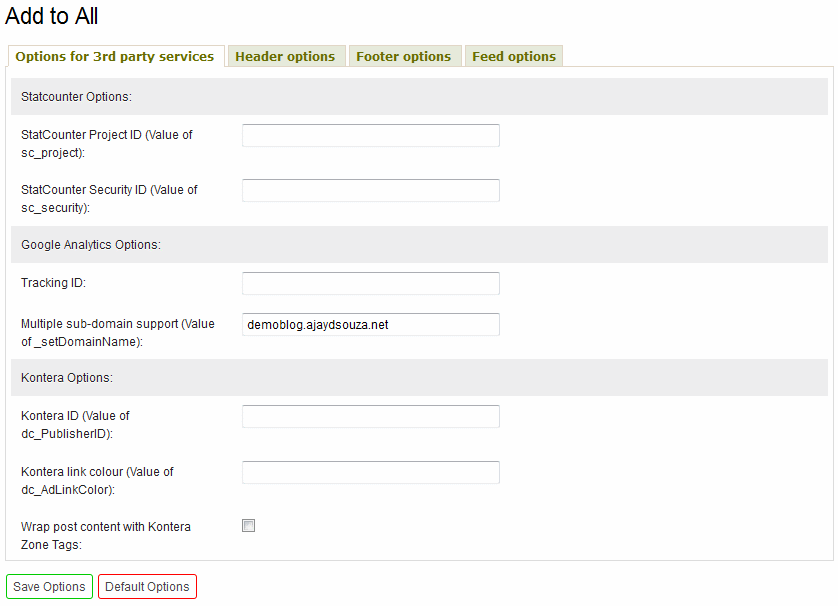
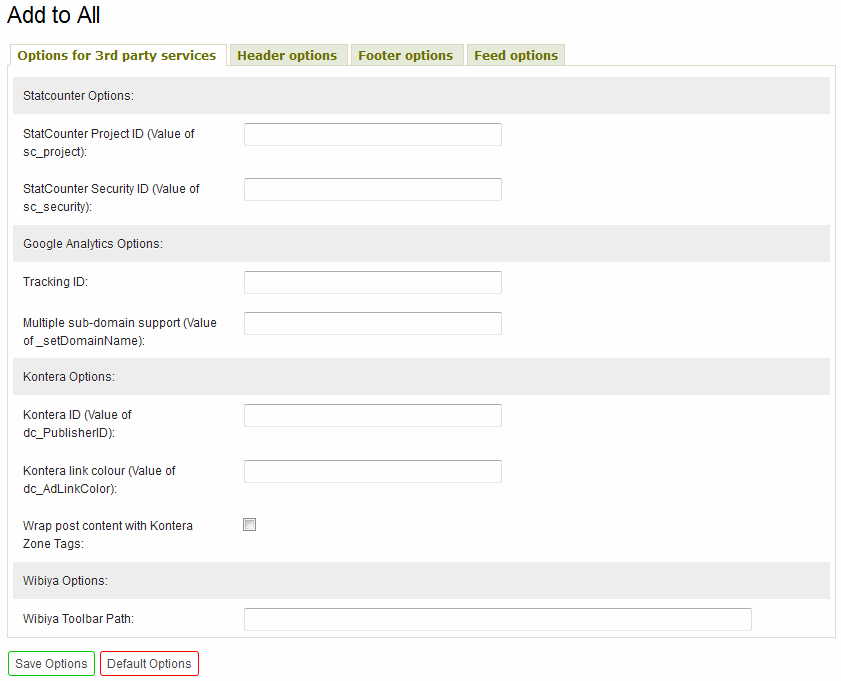
Added support for Wibiya

diff --git a/admin.inc.php b/admin.inc.php
@@ -40,6 +40,7 @@ function ata_options() {
 		$ata_settings[tp_kontera_ID] = ($_POST['tp_kontera_ID']);
 		$ata_settings[tp_kontera_linkcolor] = ($_POST['tp_kontera_linkcolor']);
 		$ata_settings[tp_kontera_addZT] = (($_POST['tp_kontera_addZT']) ? true : false);
+		$ata_settings[tp_wibiya_url] = ($_POST['tp_wibiya_url']);
 
 		update_option('ald_ata_settings', $ata_settings);
 		
@@ -89,7 +90,7 @@ function ata_options() {
 			<li><a href="http://ajaydsouza.com/wordpress/plugins/add-to-all/"><?php _e('Add to All ');_e('plugin page',ATA_LOCAL_NAME) ?></a></li>
 			<li><a href="http://ajaydsouza.com/wordpress/plugins/"><?php _e('Other plugins',ATA_LOCAL_NAME) ?></a></li>
 			<li><a href="http://ajaydsouza.com/"><?php _e('Ajay\'s blog',ATA_LOCAL_NAME) ?></a></li>
-			<li><a href="http://ajaydsouza.com/support/"><?php _e('Support',ATA_LOCAL_NAME) ?></a></li>
+			<li><a href="http://wordpress.org/support/plugin/add-to-all"><?php _e('Support',ATA_LOCAL_NAME) ?></a></li>
 			<li><a href="http://twitter.com/ajaydsouza"><?php _e('Follow @ajaydsouza on Twitter',ATA_LOCAL_NAME) ?></a></li>
 		</ul>
 		</div>
@@ -111,30 +112,35 @@ function ata_options() {
 			  <table class="form-table">
 				<tr style="vertical-align: top; background: #eee"><th scope="row" colspan="2"><?php _e('Statcounter Options:',ATA_LOCAL_NAME); ?></th>
 				</tr>
-				<tr style="vertical-align: top;"><th scope="row"><label for="tp_sc_project"><?php _e('StatCounter Project ID (Value of sc_project): ',ATA_LOCAL_NAME); ?></label></th>
+				<tr style="vertical-align: top;"><th scope="row"><label for="tp_sc_project"><?php _e('StatCounter Project ID (Value of sc_project):',ATA_LOCAL_NAME); ?></label></th>
 				<td><input type="textbox" name="tp_sc_project" id="tp_sc_project" value="<?php echo attribute_escape(stripslashes($ata_settings[tp_sc_project])); ?>" style="width:250px" /></td>
 				</tr>
-				<tr style="vertical-align: top;"><th scope="row"><label for="tp_sc_security"><?php _e('StatCounter Security ID (Value of sc_security): ',ATA_LOCAL_NAME); ?></label></th>
+				<tr style="vertical-align: top;"><th scope="row"><label for="tp_sc_security"><?php _e('StatCounter Security ID (Value of sc_security):',ATA_LOCAL_NAME); ?></label></th>
 				<td><input type="textbox" name="tp_sc_security" id="tp_sc_security" value="<?php echo attribute_escape(stripslashes($ata_settings[tp_sc_security])); ?>" style="width:250px" /></td>
 				</tr>
-				<tr style="vertical-align: top; background: #eee"><th scope="row" colspan="2"><?php _e('Google Analytics Options: ',ATA_LOCAL_NAME); ?></th>
+				<tr style="vertical-align: top; background: #eee"><th scope="row" colspan="2"><?php _e('Google Analytics Options:',ATA_LOCAL_NAME); ?></th>
 				</tr>
-				<tr style="vertical-align: top;"><th scope="row"><label for="tp_ga_uacct"><?php _e('Tracking ID: ',ATA_LOCAL_NAME); ?></label></th>
+				<tr style="vertical-align: top;"><th scope="row"><label for="tp_ga_uacct"><?php _e('Tracking ID:',ATA_LOCAL_NAME); ?></label></th>
 				<td><input type="textbox" name="tp_ga_uacct" id="tp_ga_uacct" value="<?php echo attribute_escape(stripslashes($ata_settings[tp_ga_uacct])); ?>" style="width:250px" /></td>
 				</tr>
-				<tr style="vertical-align: top;"><th scope="row"><label for="tp_ga_domain"><?php _e('Multiple sub-domain support (Value of _setDomainName): ',ATA_LOCAL_NAME); ?></label></th>
+				<tr style="vertical-align: top;"><th scope="row"><label for="tp_ga_domain"><?php _e('Multiple sub-domain support (Value of _setDomainName):',ATA_LOCAL_NAME); ?></label></th>
 				<td><input type="textbox" name="tp_ga_domain" id="tp_ga_domain" value="<?php echo attribute_escape(stripslashes($ata_settings[tp_ga_domain])); ?>" style="width:250px" /></td>
 				</tr>
-				<tr style="vertical-align: top; background: #eee"><th scope="row" colspan="2"><?php _e('Kontera Options: ',ATA_LOCAL_NAME); ?></th>
+				<tr style="vertical-align: top; background: #eee"><th scope="row" colspan="2"><?php _e('Kontera Options:',ATA_LOCAL_NAME); ?></th>
 				</tr>
-				<tr style="vertical-align: top;"><th scope="row"><label for="tp_kontera_ID"><?php _e('Kontera ID (Value of dc_PublisherID): ',ATA_LOCAL_NAME); ?></label></th>
+				<tr style="vertical-align: top;"><th scope="row"><label for="tp_kontera_ID"><?php _e('Kontera ID (Value of dc_PublisherID):',ATA_LOCAL_NAME); ?></label></th>
 				<td><input type="textbox" name="tp_kontera_ID" id="tp_kontera_ID" value="<?php echo attribute_escape(stripslashes($ata_settings[tp_kontera_ID])); ?>" style="width:250px" /></td>
 				</tr>
-				<tr style="vertical-align: top;"><th scope="row"><label for="tp_kontera_linkcolor"><?php _e('Kontera link colour (Value of dc_AdLinkColor): ',ATA_LOCAL_NAME); ?></label></th>
+				<tr style="vertical-align: top;"><th scope="row"><label for="tp_kontera_linkcolor"><?php _e('Kontera link colour (Value of dc_AdLinkColor):',ATA_LOCAL_NAME); ?></label></th>
 				<td><input type="textbox" name="tp_kontera_linkcolor" id="tp_kontera_linkcolor" value="<?php echo attribute_escape(stripslashes($ata_settings[tp_kontera_linkcolor])); ?>" style="width:250px" /></td>
 				</tr>
-				<tr style="vertical-align: top;"><th scope="row"><label for="tp_kontera_addZT"><?php _e('Wrap post content with Kontera Zone Tags: ',ATA_LOCAL_NAME); ?></label></th>
+				<tr style="vertical-align: top;"><th scope="row"><label for="tp_kontera_addZT"><?php _e('Wrap post content with Kontera Zone Tags:',ATA_LOCAL_NAME); ?></label></th>
 				<td><input type="checkbox" name="tp_kontera_addZT" id="tp_kontera_addZT" <?php if ($ata_settings[tp_kontera_addZT]) echo 'checked="checked"' ?> /></td>
+				</tr>
+				<tr style="vertical-align: top; background: #eee"><th scope="row" colspan="2"><?php _e('Wibiya Options:',ATA_LOCAL_NAME); ?></th>
+				</tr>
+				<tr style="vertical-align: top;"><th scope="row"><label for="tp_wibiya_url"><?php _e('Wibiya Toolbar Path:',ATA_LOCAL_NAME); ?></label></th>
+				<td><input type="textbox" name="tp_wibiya_url" id="tp_wibiya_url" value="<?php echo attribute_escape(stripslashes($ata_settings[tp_wibiya_url])); ?>" style="width:500px" /></td>
 				</tr>
 			  </table>
 			</div>
@@ -170,21 +176,21 @@ function ata_options() {
 			</h3>
 			  <table class="form-table">
 				<tr style="vertical-align: top; "><td scope="row" colspan="2">
-					<label><input type="checkbox" name="feed_addhtmlbefore" id="feed_addhtmlbefore" <?php if ($ata_settings[feed_addhtmlbefore]) echo 'checked="checked"' ?> /> <?php _e('Add the following to the feed before the content. (You can use HTML): ',ATA_LOCAL_NAME); ?></label>
+					<label><input type="checkbox" name="feed_addhtmlbefore" id="feed_addhtmlbefore" <?php if ($ata_settings[feed_addhtmlbefore]) echo 'checked="checked"' ?> /> <?php _e('Add the following to the feed before the content. (You can use HTML):',ATA_LOCAL_NAME); ?></label>
 					<br /><textarea name="feed_htmlbefore" id="feed_htmlbefore" rows="15" cols="80"><?php echo stripslashes($ata_settings[feed_htmlbefore]); ?></textarea></td>
 				</tr>
 				<tr style="vertical-align: top; "><td scope="row" colspan="2">
-					<label><input type="checkbox" name="feed_addhtmlafter" id="feed_addhtmlafter" <?php if ($ata_settings[feed_addhtmlafter]) echo 'checked="checked"' ?> /> <?php _e('Add the following to the feed after the content. (You can use HTML): ',ATA_LOCAL_NAME); ?></label>
+					<label><input type="checkbox" name="feed_addhtmlafter" id="feed_addhtmlafter" <?php if ($ata_settings[feed_addhtmlafter]) echo 'checked="checked"' ?> /> <?php _e('Add the following to the feed after the content. (You can use HTML):',ATA_LOCAL_NAME); ?></label>
 					<br /><textarea name="feed_htmlafter" id="feed_htmlafter" rows="15" cols="80"><?php echo stripslashes($ata_settings[feed_htmlafter]); ?></textarea></td>
 				</tr>
 				<tr style="vertical-align: top; "><td scope="row" colspan="2">
-					<label><input type="checkbox" name="feed_addcopyright" id="feed_addcopyright" <?php if ($ata_settings[feed_addcopyright]) echo 'checked="checked"' ?> /> <?php _e('Add the following copyright notice to the feed (You can use HTML): ',ATA_LOCAL_NAME); ?></label>
+					<label><input type="checkbox" name="feed_addcopyright" id="feed_addcopyright" <?php if ($ata_settings[feed_addcopyright]) echo 'checked="checked"' ?> /> <?php _e('Add the following copyright notice to the feed (You can use HTML):',ATA_LOCAL_NAME); ?></label>
 					<br /><textarea name="feed_copyrightnotice" id="feed_copyrightnotice" rows="15" cols="80"><?php echo stripslashes($ata_settings[feed_copyrightnotice]); ?></textarea></td>
 				</tr>
-				<tr style="vertical-align: top;"><th scope="row"><label for="feed_addtitle"><?php _e('Add a link to the title of the post in the feed: ',ATA_LOCAL_NAME); ?></label></th>
+				<tr style="vertical-align: top;"><th scope="row"><label for="feed_addtitle"><?php _e('Add a link to the title of the post in the feed:',ATA_LOCAL_NAME); ?></label></th>
 				<td><input type="checkbox" name="feed_addtitle" id="feed_addtitle" <?php if ($ata_settings[feed_addtitle]) echo 'checked="checked"' ?> /></td>
 				</tr>
-				<tr style="vertical-align: top;"><th scope="row"><label for="addcredit"><?php _e('Add a link to "Add to All" plugin page: ',ATA_LOCAL_NAME); ?></label></th>
+				<tr style="vertical-align: top;"><th scope="row"><label for="addcredit"><?php _e('Add a link to "Add to All" plugin page:',ATA_LOCAL_NAME); ?></label></th>
 				<td><input type="checkbox" name="addcredit" id="addcredit" <?php if ($ata_settings[addcredit]) echo 'checked="checked"' ?> /></td>
 				</tr>
 			  </table>

diff --git a/add-to-all.php b/add-to-all.php
@@ -55,6 +55,7 @@ function ald_ata_footer() {
 	$ga_url = stripslashes($ata_settings[tp_ga_domain]);
 	$kontera_ID = stripslashes($ata_settings[tp_kontera_ID]);
 	$kontera_linkcolor = stripslashes($ata_settings[tp_kontera_linkcolor]);
+	$tp_wibiya_url = stripslashes($ata_settings[tp_wibiya_url]);
 	
 	// Add other footer 
 	if ($ata_other != '') {
@@ -112,6 +113,14 @@ function ald_ata_footer() {
 
 <?php	}
 	
+	if ($tp_wibiya_url != '') {
+?>
+	<!-- Wibiya -->
+	<script src="<?php echo $tp_wibiya_url; ?>" type="text/javascript"></script>
+	<!-- end Wibiya --> 
+
+<?php	}
+	
 }
 
 // Content function
@@ -138,7 +147,7 @@ function ald_ata_content($content) {
 add_filter('the_content', 'ald_ata',99999999);
 function ald_ata($content) {
 	$ata_settings = ata_read_options();
-	$creditline = '<br /><span style="font-size: 0.8em">Feed enhanced by the <a href="http://ajaydsouza.com/wordpress/plugins/add-to-feed/">Add To Feed Plugin</a> by <a href="http://ajaydsouza.com/">Ajay D\'Souza</a></span>';
+	$creditline = '<br /><span style="font-size: 0.8em">Feed enhanced by the <a href="http://ajaydsouza.com/wordpress/plugins/add-to-all/">Add To All Plugin</a> by <a href="http://ajaydsouza.com/">Ajay D\'Souza</a></span>';
 	
 	$str_before ='';
 	$str_after ='<hr style="border-top:black solid 1px" />';
@@ -205,36 +214,37 @@ function ata_default_options() {
 	$copyrightnotice = '&copy;'. date("Y").' &quot;<a href="'.get_option('home').'">'.get_option('blogname').'</a>&quot;. ';
 	$copyrightnotice .= __('Use of this feed is for personal non-commercial use only. If you are not reading this article in your feed reader, then the site is guilty of copyright infringement. Please contact me at ','ald_ata_plugin');
 	$copyrightnotice .= get_option('admin_email');
-	$ga_url = parse_url(get_option('home'),PHP_URL_HOST);
+	$ga_url = '.'.parse_url(get_option('home'),PHP_URL_HOST);
 
 	$ata_settings = Array (
-						addcredit => false,		// Show credits?
+						'addcredit' => false,		// Show credits?
 						
 						// Feed options
-						feed_htmlbefore => '',		// HTML you want added to the feed
-						feed_htmlafter => '',		// HTML you want added to the feed
-						feed_copyrightnotice => $copyrightnotice,		// Copyright Notice
-						feed_emailaddress => get_option('admin_email'),		// Admin Email
-						feed_addhtmlbefore => false,		// Add HTML to Feed?
-						feed_addhtmlafter => false,		// Add HTML to Feed?
-						feed_addtitle => true,		// Add title of the post?
-						feed_addcopyright => true,		// Add copyright notice?
+						'feed_htmlbefore' => '',		// HTML you want added to the feed
+						'feed_htmlafter' => '',		// HTML you want added to the feed
+						'feed_copyrightnotice' => $copyrightnotice,		// Copyright Notice
+						'feed_emailaddress' => get_option('admin_email'),		// Admin Email
+						'feed_addhtmlbefore' => false,		// Add HTML to Feed?
+						'feed_addhtmlafter' => false,		// Add HTML to Feed?
+						'feed_addtitle' => true,		// Add title of the post?
+						'feed_addcopyright' => true,		// Add copyright notice?
 						
 						// 3rd party options
-						tp_sc_project => '',		// StatCounter Project ID
-						tp_sc_security => '',		// StatCounter Security String
-						tp_ga_uacct => '',			// Google Analytics Web Property ID
-						tp_ga_domain => $ga_url,		// Google Analytics _setDomainName value
-						tp_kontera_ID => '',		// Kontera Publisher ID
-						tp_kontera_linkcolor => '',		// Kontera link color
-						tp_kontera_addZT => '',		// Kontera Add zone tags
+						'tp_sc_project' => '',		// StatCounter Project ID
+						'tp_sc_security' => '',		// StatCounter Security String
+						'tp_ga_uacct' => '',			// Google Analytics Web Property ID
+						'tp_ga_domain' => $ga_url,		// Google Analytics _setDomainName value
+						'tp_kontera_ID' => '',		// Kontera Publisher ID
+						'tp_kontera_linkcolor' => '',		// Kontera link color
+						'tp_kontera_addZT' => '',		// Kontera Add zone tags
+						'tp_wibiya_url' => '',		// Kontera Add zone tags
 
 						// Footer options
-						ft_other => '',				// For any other code
+						'ft_other' => '',				// For any other code
 
 						// Header options
-						head_CSS => '',				// CSS to add to header (do not wrap with <style> tags)
-						head_other => '',			// For any other code
+						'head_CSS' => '',				// CSS to add to header (do not wrap with <style> tags)
+						'head_other' => '',			// For any other code
 
 					);
 	return $ata_settings;
@@ -336,7 +346,7 @@ function ata_plugin_actions( $links, $file ) {
 	// create link
 	if ($file == $plugin) {
 		$links[] = '<a href="' . admin_url( 'options-general.php?page=ata_options' ) . '">' . __('Settings', ATA_LOCAL_NAME ) . '</a>';
-		$links[] = '<a href="http://ajaydsouza.com/support/">' . __('Support', ATA_LOCAL_NAME ) . '</a>';
+		$links[] = '<a href="http://wordpress.org/support/plugin/add-to-all">' . __('Support', ATA_LOCAL_NAME ) . '</a>';
 		$links[] = '<a href="http://ajaydsouza.com/donate/">' . __('Donate', ATA_LOCAL_NAME ) . '</a>';
 	}
 	return $links;
